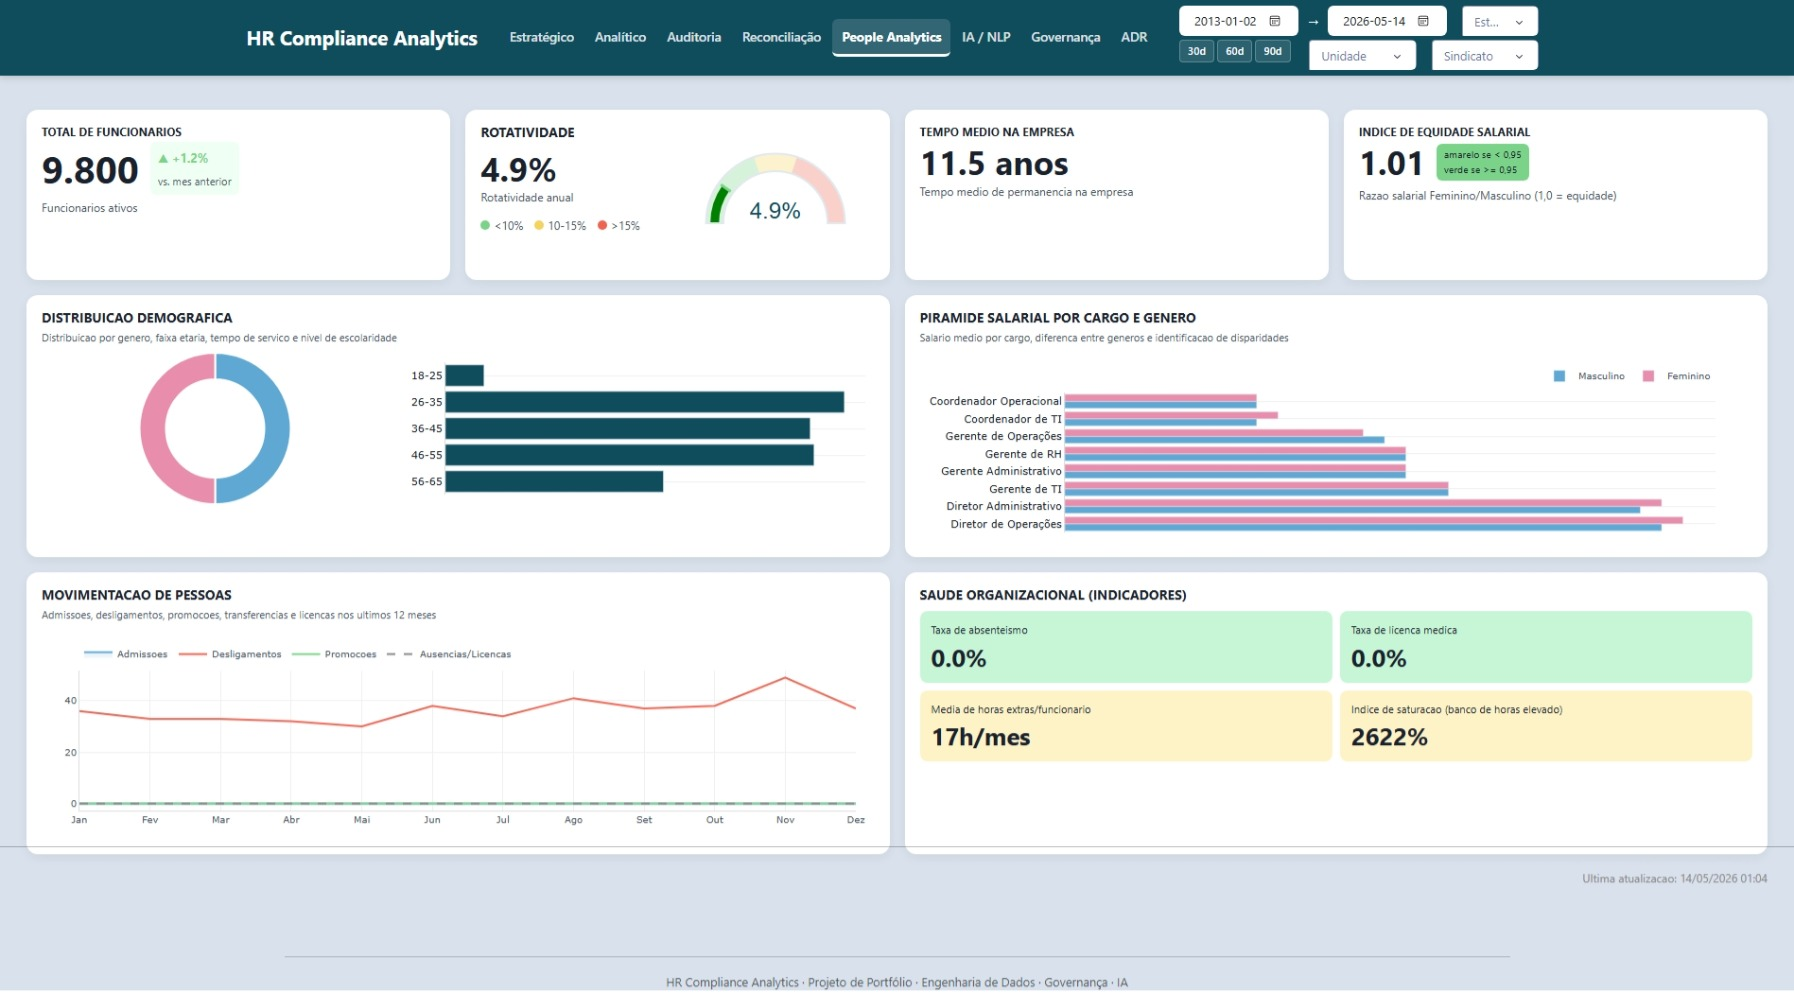
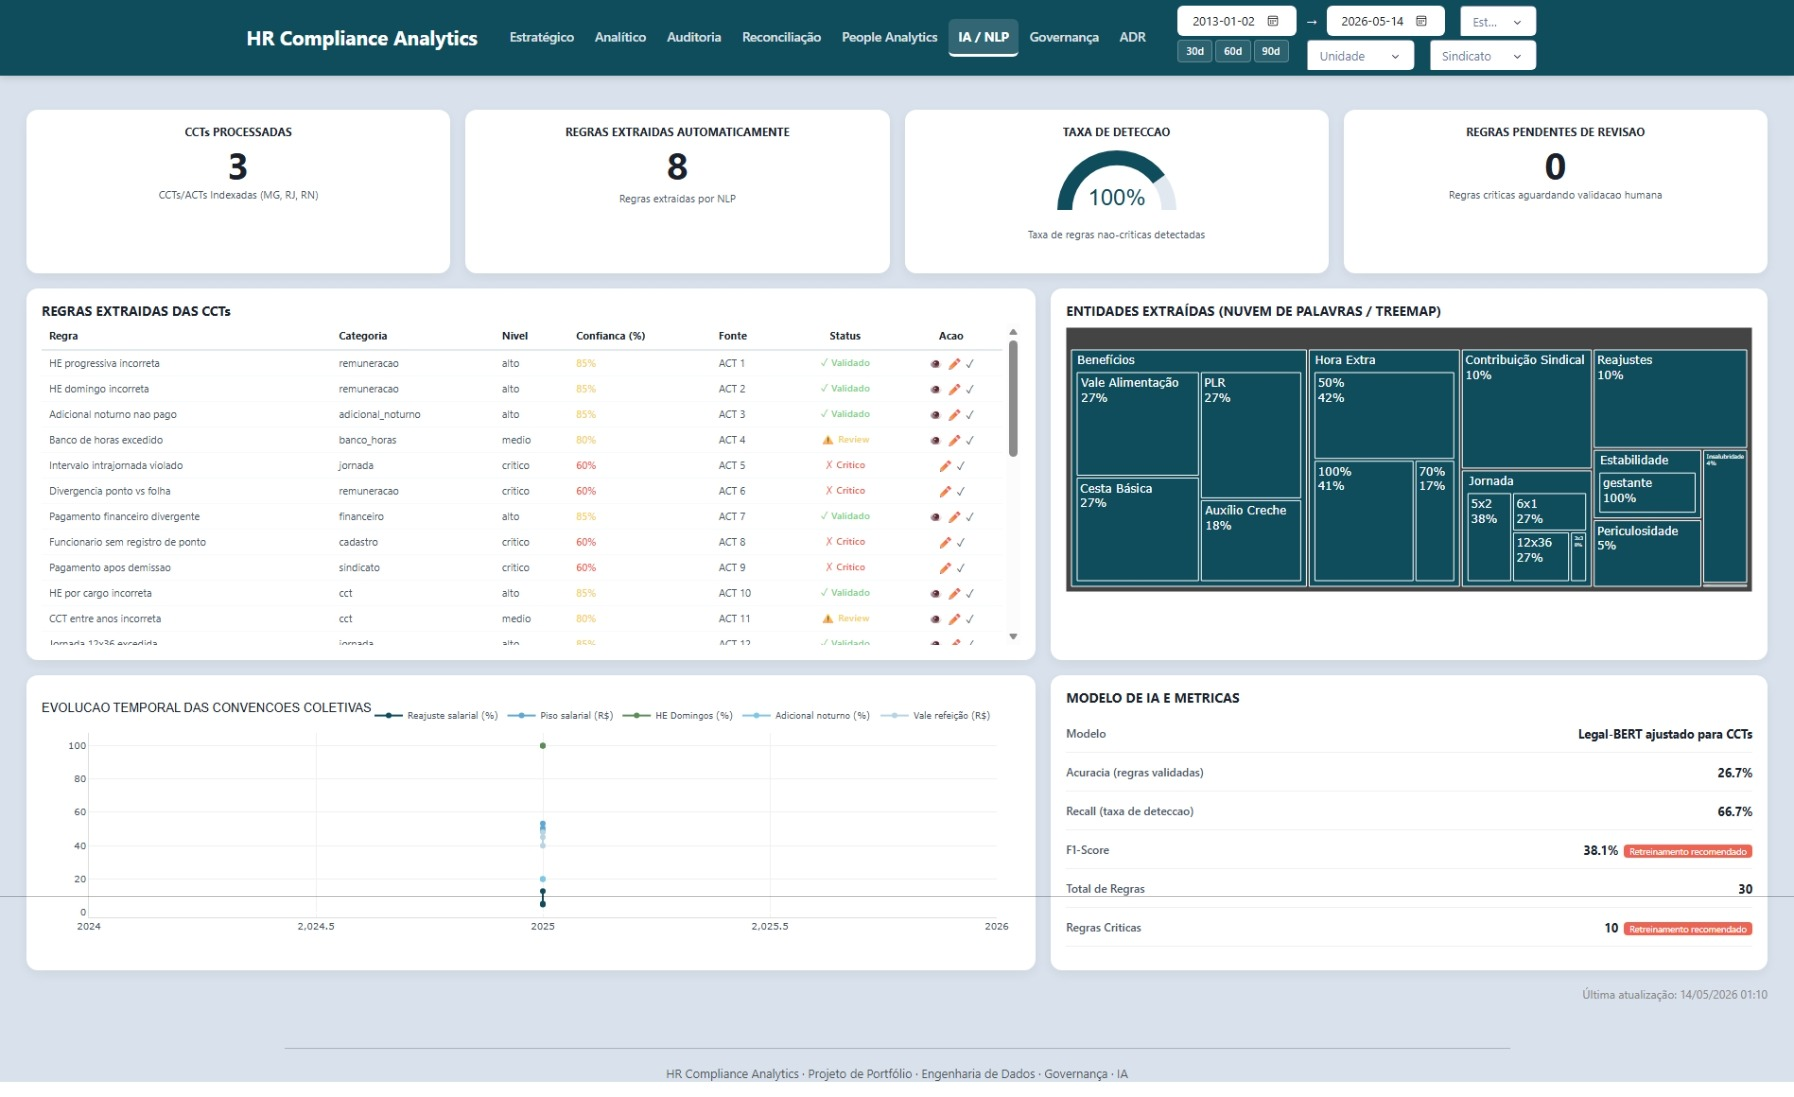
Adjust README dashboard preview layout and add pipeline runner fixes

diff --git a/README.md b/README.md
@@ -6,16 +6,33 @@
 
 ## Dashboard Preview — Pré-visualização dos Dashboards
 
-| | |
-|:---:|:---:|
-| ![Dashboard Estratégico](Docs/Dashboards/01_dashboard_estrategico.png) | ![Dashboard Analítico](Docs/Dashboards/02_dashboard_analitico.png) |
-| **01 — Estratégico** | **02 — Analítico** |
-| ![Dashboard Auditoria](Docs/Dashboards/03_dashboard_auditoria_funcionario.png) | ![Dashboard Reconciliação](Docs/Dashboards/04_dashboard_reconciliacao.jpeg) |
-| **03 — Auditoria Individual** | **04 — Reconciliação & Compliance** |
-| ![Dashboard People Analytics](Docs/Dashboards/05_dashboard_people_analytics.png) | ![Dashboard IA / NLP](Docs/Dashboards/06_dashboard_ia_nlp.jpeg) |
-| **05 — People Analytics** | **06 — IA & NLP** |
-| ![Dashboard Governança](Docs/Dashboards/07_dashboard_governanca.png) | |
-| **07 — Governança & Data Quality** | |
+**01 — Estratégico**
+
+![Dashboard Estratégico](Docs/Dashboards/01_dashboard_estrategico.png)
+
+**02 — Analítico**
+
+![Dashboard Analítico](Docs/Dashboards/02_dashboard_analitico.png)
+
+**03 — Auditoria Individual**
+
+![Dashboard Auditoria](Docs/Dashboards/03_dashboard_auditoria_funcionario.png)
+
+**04 — Reconciliação & Compliance**
+
+![Dashboard Reconciliação](Docs/Dashboards/04_dashboard_reconciliacao.jpeg)
+
+**05 — People Analytics**
+
+![Dashboard People Analytics](Docs/Dashboards/05_dashboard_people_analytics.png)
+
+**06 — IA & NLP**
+
+![Dashboard IA / NLP](Docs/Dashboards/06_dashboard_ia_nlp.jpeg)
+
+**07 — Governança & Data Quality**
+
+![Dashboard Governança](Docs/Dashboards/07_dashboard_governanca.png)
 
 ---
 